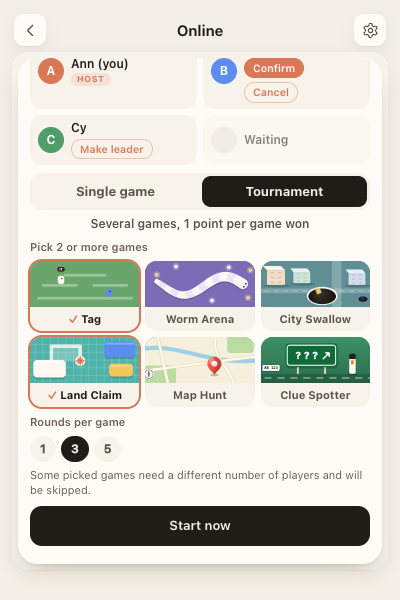
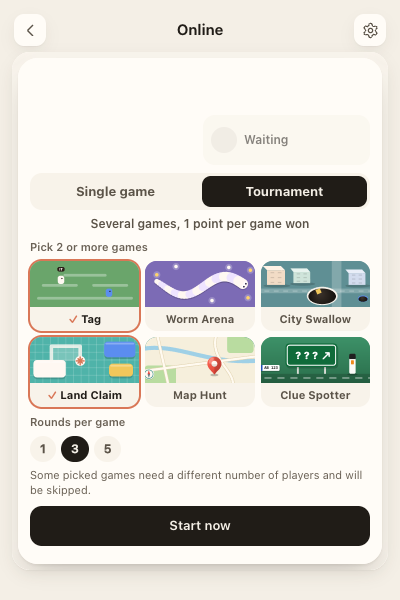
release: 1.12.19 online rejoin and bot fixes, Hammer Climb sky ending, detailed maps, readable names

diff --git a/CHANGELOG.md b/CHANGELOG.md
@@ -3,6 +3,15 @@
 All notable changes to Ludus. Versions follow the app's version number (`Info.plist`,
 `windows/Ludus.csproj`).
 
+## 1.12.19 (2026-10-28)
+- Air Hockey: the bot no longer pins the puck in a corner, in the vertical layout either.
+- Rejoin works however old the party is: it joins the live party, or reopens the same code if nobody is there, and the Last party card is never lost.
+- Room codes never repeat a letter or number. Older codes still work.
+- Online page: matching rounded corners, and the Play online card keeps its size when Last party appears.
+- Hammer Climb: no difficulty levels (plays like Medium). The top is now floating rocks in the sky and a final launch into space. New cover.
+- Map Hunt and Mosaic Hunt: much more detailed maps when zoomed in (streets, buildings, districts, places). Mosaic Hunt has one set of zoom buttons. Pinch to zoom works on Windows.
+- Full game names always show (game headers, Continue card). Settings descriptions follow the switch. Symmetric name bubble and a new rename tooltip. The Edit list button is gone.
+
 ## 1.12.18 (2026-10-28)
 - Online games are smooth for the guest: every live game (Paddle Duel, Air Hockey, Tag, Worm Arena, Land Claim, City Swallow) now plays the host's moves back on an even clock a little behind, blends between them, carries motion on briefly when the line hiccups and eases back instead of jumping. Copies that arrive late, twice or out of order no longer cause stutters, and a lost copy no longer freezes the picture.
 - Air Hockey online: the guest's puck is drawn where it really is now and bounces off your own mallet straight away. Mouse and trackpad steer your mallet inside your half. The rink is wide by default; the Rotate button in the header turns it tall and remembers it. Everyone has their own goal on their side (left when wide, bottom when tall).
@@ -31,7 +40,7 @@ All notable changes to Ludus. Versions follow the app's version number (`Info.pl
 - Sky Hop: a second mode, Monsters. Little monsters float between the platforms (land on top to bop them, touch one
   any other way and you fall) and puffy clouds hold you for one bounce. Switch between Classic and Monsters at the top
   before the first jumps or after a fall (or press M).
-- Original names (Settings > More) now does something everywhere: Add list lets you paste your own names
+- Original names (Settings > More) now does something everywhere: reads your own list of names
   (one "Game = name" per line), and on Windows a list file next to Ludus.exe is found too.
 - Map Hunt and Mosaic Hunt maps: + and - zoom buttons, double-click to zoom, and a trackpad pinch works on Mac too.
 - Mosaic Hunt: the map pins and labels no longer draw on top of the "Hunt complete" card.
